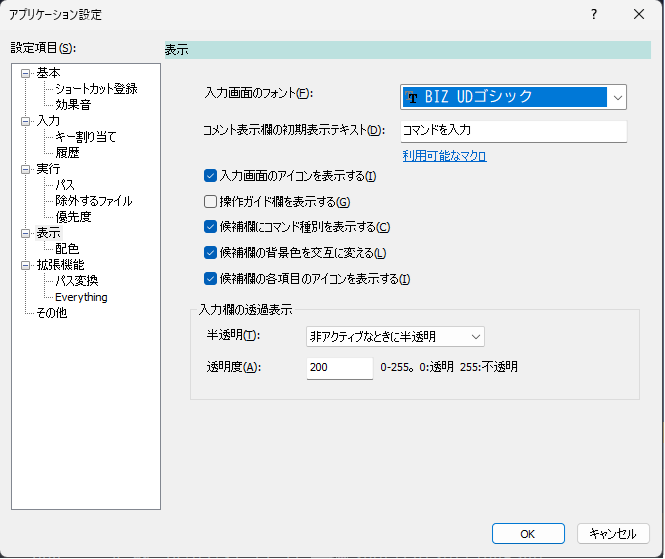
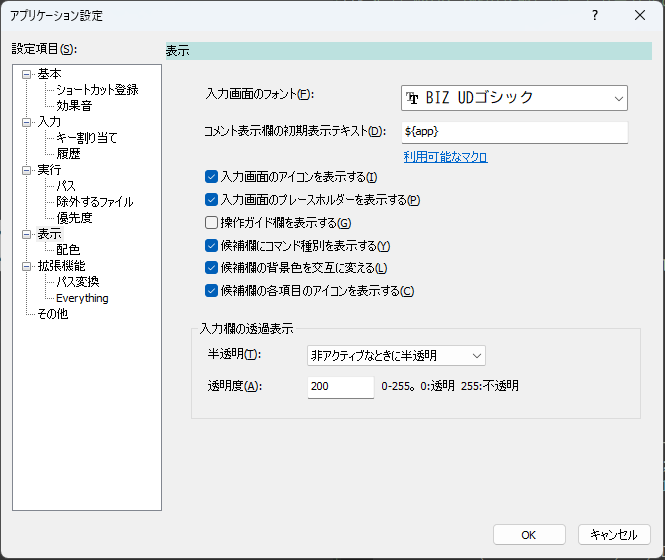
入力欄にプレースホルダーテキストを表示するようにした

diff --git a/soyokaze/gui/KeywordEdit.cpp b/soyokaze/gui/KeywordEdit.cpp
@@ -112,6 +112,8 @@ struct KeywordEdit::PImpl
 	HBITMAP mCaretNormal = nullptr;
 	HBITMAP mCaretIMEON = nullptr;
 
+	CString mPlaceHolderText;
+
 };
 
 KeywordEdit::KeywordEdit(CWnd* pParent) : in(std::make_unique<PImpl>())
@@ -140,6 +142,7 @@ KeywordEdit::~KeywordEdit()
 }
 
 BEGIN_MESSAGE_MAP(KeywordEdit, CEdit)
+	ON_WM_PAINT()
 	ON_WM_KEYDOWN()
 	ON_WM_GETDLGCODE()
 	ON_WM_SETFOCUS()
@@ -184,9 +187,10 @@ void KeywordEdit::SetIMEOff()
 	ImmSetOpenStatus(in->GetImmContext(this), FALSE);
 }
 
-// プレースホルダーの文字列を設定する(空文字の場合はプレースホルダーを表示しない)
+// プレースホルダーの文字列を設定する
 void KeywordEdit::SetPlaceHolder(const CString& text)
 {
+	in->mPlaceHolderText = text;
 	SendMessage(EM_SETCUEBANNER, TRUE, (LPARAM)(LPCTSTR)text);
 
 }
@@ -271,5 +275,38 @@ void KeywordEdit::OnPaste()
 		text = text.Left(pos);
 	}
 	SendMessage(EM_REPLACESEL, (WPARAM)TRUE, (LPARAM)(LPCTSTR)text);
+}
+
+void KeywordEdit::OnPaint()
+{
+	// ES_MULTILINEの場合、EM_SETCUEBANNERによる描画が効かないため、自分で描画する
+	LONG style = GetWindowLong(GetSafeHwnd(), GWL_STYLE);
+	if ((style & ES_MULTILINE) == 0) {
+		__super::OnPaint();
+		return;
+	}
+
+	CString s;
+	GetWindowText(s);
+	if (s.IsEmpty()) {
+		// 描画領域を取得する
+		CRect rc;
+		GetRect(rc);
+
+		// デバイスコンテキストを準備する
+		CPaintDC dc(this);
+		auto org = dc.SelectObject(GetFont());
+		int bk = dc.SetBkMode(TRANSPARENT);
+		COLORREF cr = dc.SetTextColor(RGB(128,128,128));
+
+		// テキスト描画
+		dc.DrawText(in->mPlaceHolderText, rc, DT_LEFT);
+
+		// デバイスコンテキストの状態を元に戻す
+		dc.SetTextColor(cr);
+		dc.SetBkMode(bk);
+		dc.SelectObject(org);
+	}
+	__super::OnPaint();
 }
 

diff --git a/soyokaze/settingwindow/ViewSettingDialog.cpp b/soyokaze/settingwindow/ViewSettingDialog.cpp
@@ -14,6 +14,8 @@ struct ViewSettingDialog::PImpl
 {
 	// 入力欄のアイコンを表示する
 	BOOL mIsDrawIcon = TRUE;
+	// 入力欄のプレースホルダーを表示する
+	BOOL mIsDrawPlaceHolder = TRUE;
 
 	// 半透明の表示方法
 	int mTransparencyType = 0;
@@ -65,6 +67,7 @@ void ViewSettingDialog::OnOK()
 {
 	auto settingsPtr = (Settings*)GetParam();
 	settingsPtr->Set(_T("ViewSetting:IsDrawIcon"), (bool)in->mIsDrawIcon);
+	settingsPtr->Set(_T("ViewSetting:IsDrawPlaceHolder"), (bool)in->mIsDrawPlaceHolder);
 
 	if (in->mTransparencyType == 0) {
 		settingsPtr->Set(_T("WindowTransparency:Enable"), true);
@@ -103,6 +106,7 @@ void ViewSettingDialog::DoDataExchange(CDataExchange* pDX)
 	__super::DoDataExchange(pDX);
 
 	DDX_Check(pDX, IDC_CHECK_DRAWICON, in->mIsDrawIcon);
+	DDX_Check(pDX, IDC_CHECK_DRAWPLACEHOLDER, in->mIsDrawPlaceHolder);
 	DDX_CBIndex(pDX, IDC_COMBO_TRANSPARENCY, in->mTransparencyType);
 	DDX_Text(pDX, IDC_EDIT_ALPHA, in->mAlpha);
 	DDV_MinMaxInt(pDX, in->mAlpha, 0, 255);
@@ -153,6 +157,7 @@ void ViewSettingDialog::OnEnterSettings()
 	auto settingsPtr = (Settings*)GetParam();
 
 	in->mIsDrawIcon = settingsPtr->Get(_T("ViewSetting:IsDrawIcon"), true);
+	in->mIsDrawPlaceHolder = settingsPtr->Get(_T("ViewSetting:IsDrawPlaceHolder"), true);
 
 	if (settingsPtr->Get(_T("WindowTransparency:Enable"), false) == false) {
 		in->mTransparencyType = 2;

diff --git a/soyokaze/mainwindow/LauncherMainWindow.cpp b/soyokaze/mainwindow/LauncherMainWindow.cpp
@@ -276,6 +276,11 @@ LRESULT LauncherMainWindow::OnUserMessageActiveWindow(WPARAM wParam, LPARAM lPar
 			               SWP_NOZORDER | SWP_NOSIZE);
 		}
 
+		// プレースホルダー設定
+		LPCTSTR placeholderText = pref->IsDrawPlaceHolder() ? _T("キーワードを入力してください") : _T("");
+		in->mKeywordEdit.SetPlaceHolder(placeholderText);
+
+		// 表示
 		::ShowWindow(hwnd, SW_SHOW);
 		::SetForegroundWindow(hwnd);
 		::BringWindowToTop(hwnd);
@@ -786,6 +791,7 @@ BOOL LauncherMainWindow::OnInitDialog()
 	in->mCandidateListBox.SubclassDlgItem(IDC_LIST_CANDIDATE, this);
 
 	in->mCandidateListBox.InitColumns();
+
 
 	// "バージョン情報..." メニューをシステム メニューに追加します。
 

diff --git a/soyokaze/gui/KeywordManagerDialog.cpp b/soyokaze/gui/KeywordManagerDialog.cpp
@@ -231,7 +231,7 @@ BOOL KeywordManagerDialog::OnInitDialog()
 	in->mIconLabelPtr->DrawIcon(IconLoader::Get()->LoadKeywordManagerIcon());
 
 	// フィルタ欄にプレースホルダーを設定する
-	in->mKeywordEdit.SetPlaceHolder(_T("文字列を入力するとリストの絞り込みができます"));
+	in->mKeywordEdit.SetPlaceHolder(_T("文字列をここに入力するとリストの絞り込みができます"));
 
 	// リスト　スタイル変更
 	in->mListCtrl.SetExtendedStyle(in->mListCtrl.GetExtendedStyle()|LVS_EX_FULLROWSELECT);

diff --git a/soyokaze/resource.h b/soyokaze/resource.h
@@ -264,6 +264,8 @@
 #define IDC_CHECK_SHOWGUIDE2            1064
 #define IDC_CHECK_DRAWICON              1064
 #define IDC_CHECK_ALT                   1065
+#define IDC_CHECK_DRAWICON2             1065
+#define IDC_CHECK_DRAWPLACEHOLDER       1065
 #define IDC_CHECK_HIDEONRUN             1066
 #define IDC_CHECK_CTRL                  1067
 #define IDC_CHECK_IMEOFF                1068

diff --git a/soyokaze/setting/AppPreference.cpp b/soyokaze/setting/AppPreference.cpp
@@ -410,6 +410,12 @@ bool AppPreference::IsDrawIcon()
 	return in->Get(_T("ViewSetting:IsDrawIcon"), true);
 }
 
+// 入力欄にプレースホルダーを表示するか
+bool AppPreference::IsDrawPlaceHolder()
+{
+	return in->Get(_T("ViewSetting:IsDrawPlaceHolder"), true);
+}
+
 bool AppPreference::IsTopMost()
 {
 	return in->Get(_T("Soyokaze:TopMost"), false);

diff --git a/soyokaze/gui/KeywordEdit.h b/soyokaze/gui/KeywordEdit.h
@@ -23,6 +23,7 @@ protected:
 protected:
 	LRESULT WindowProc(UINT msg, WPARAM wp, LPARAM lp) override;
 	
+	afx_msg void OnPaint();
 	afx_msg void OnKeyDown(UINT,UINT,UINT);
 	afx_msg UINT OnGetDlgCode();
 	afx_msg void OnSetFocus(CWnd* oldWindow);

diff --git a/soyokaze/setting/AppPreference.h b/soyokaze/setting/AppPreference.h
@@ -32,6 +32,8 @@ public:
 
 	// 入力欄にアイコンを描画するか
 	bool IsDrawIcon();
+	// 入力欄にプレースホルダーを表示するか
+	bool IsDrawPlaceHolder();
 
 	bool IsTopMost();
 	bool IsShowToggle();

diff --git a/CHANGELOG.md b/CHANGELOG.md
@@ -4,9 +4,16 @@
 
 ### Added
 
+- 入力欄とキーワードマネージャのフィルタ欄にプレースホルダーテキストを表示するようにした
+
 - システムコマンド`restart`を追加。ランチャー本体を再起動するためのコマンド
   - 初期状態では無効
   - 再起動を実現するにあたり、`launcher_proxy.exe`を追加
+
+### Changed
+
+- `コメント表示欄の初期表示テキスト`の初期値を変更(`コマンドを入力` → アプリケーション名)
+  - 入力欄のプレースホルダーで「キーワードを入力してください」と表示するようにしたので、候補欄の表示テキストの方も変えることにした
 
 ### Fixed
 

diff --git a/doc/help.md b/doc/help.md
@@ -496,6 +496,9 @@ bookが最も優先度が高いため、候補欄にはbookコマンドが先に
 ![](../image/defaultcomment.png)
 - `入力画面のアイコンを表示する`
   - 入力画面上のアイコン表示欄を表示する
+- `入力画面のプレースホルダーを表示する`
+  - 入力欄に何も文字を入力していない状態のときにテキストを表示する  
+![](../image/placeholder.png)
 - `操作ガイド欄を表示する`
   - チェックすると、コメント表示欄の下に操作ガイド欄を表示する  
 ![](../image/guidelabel.png)
